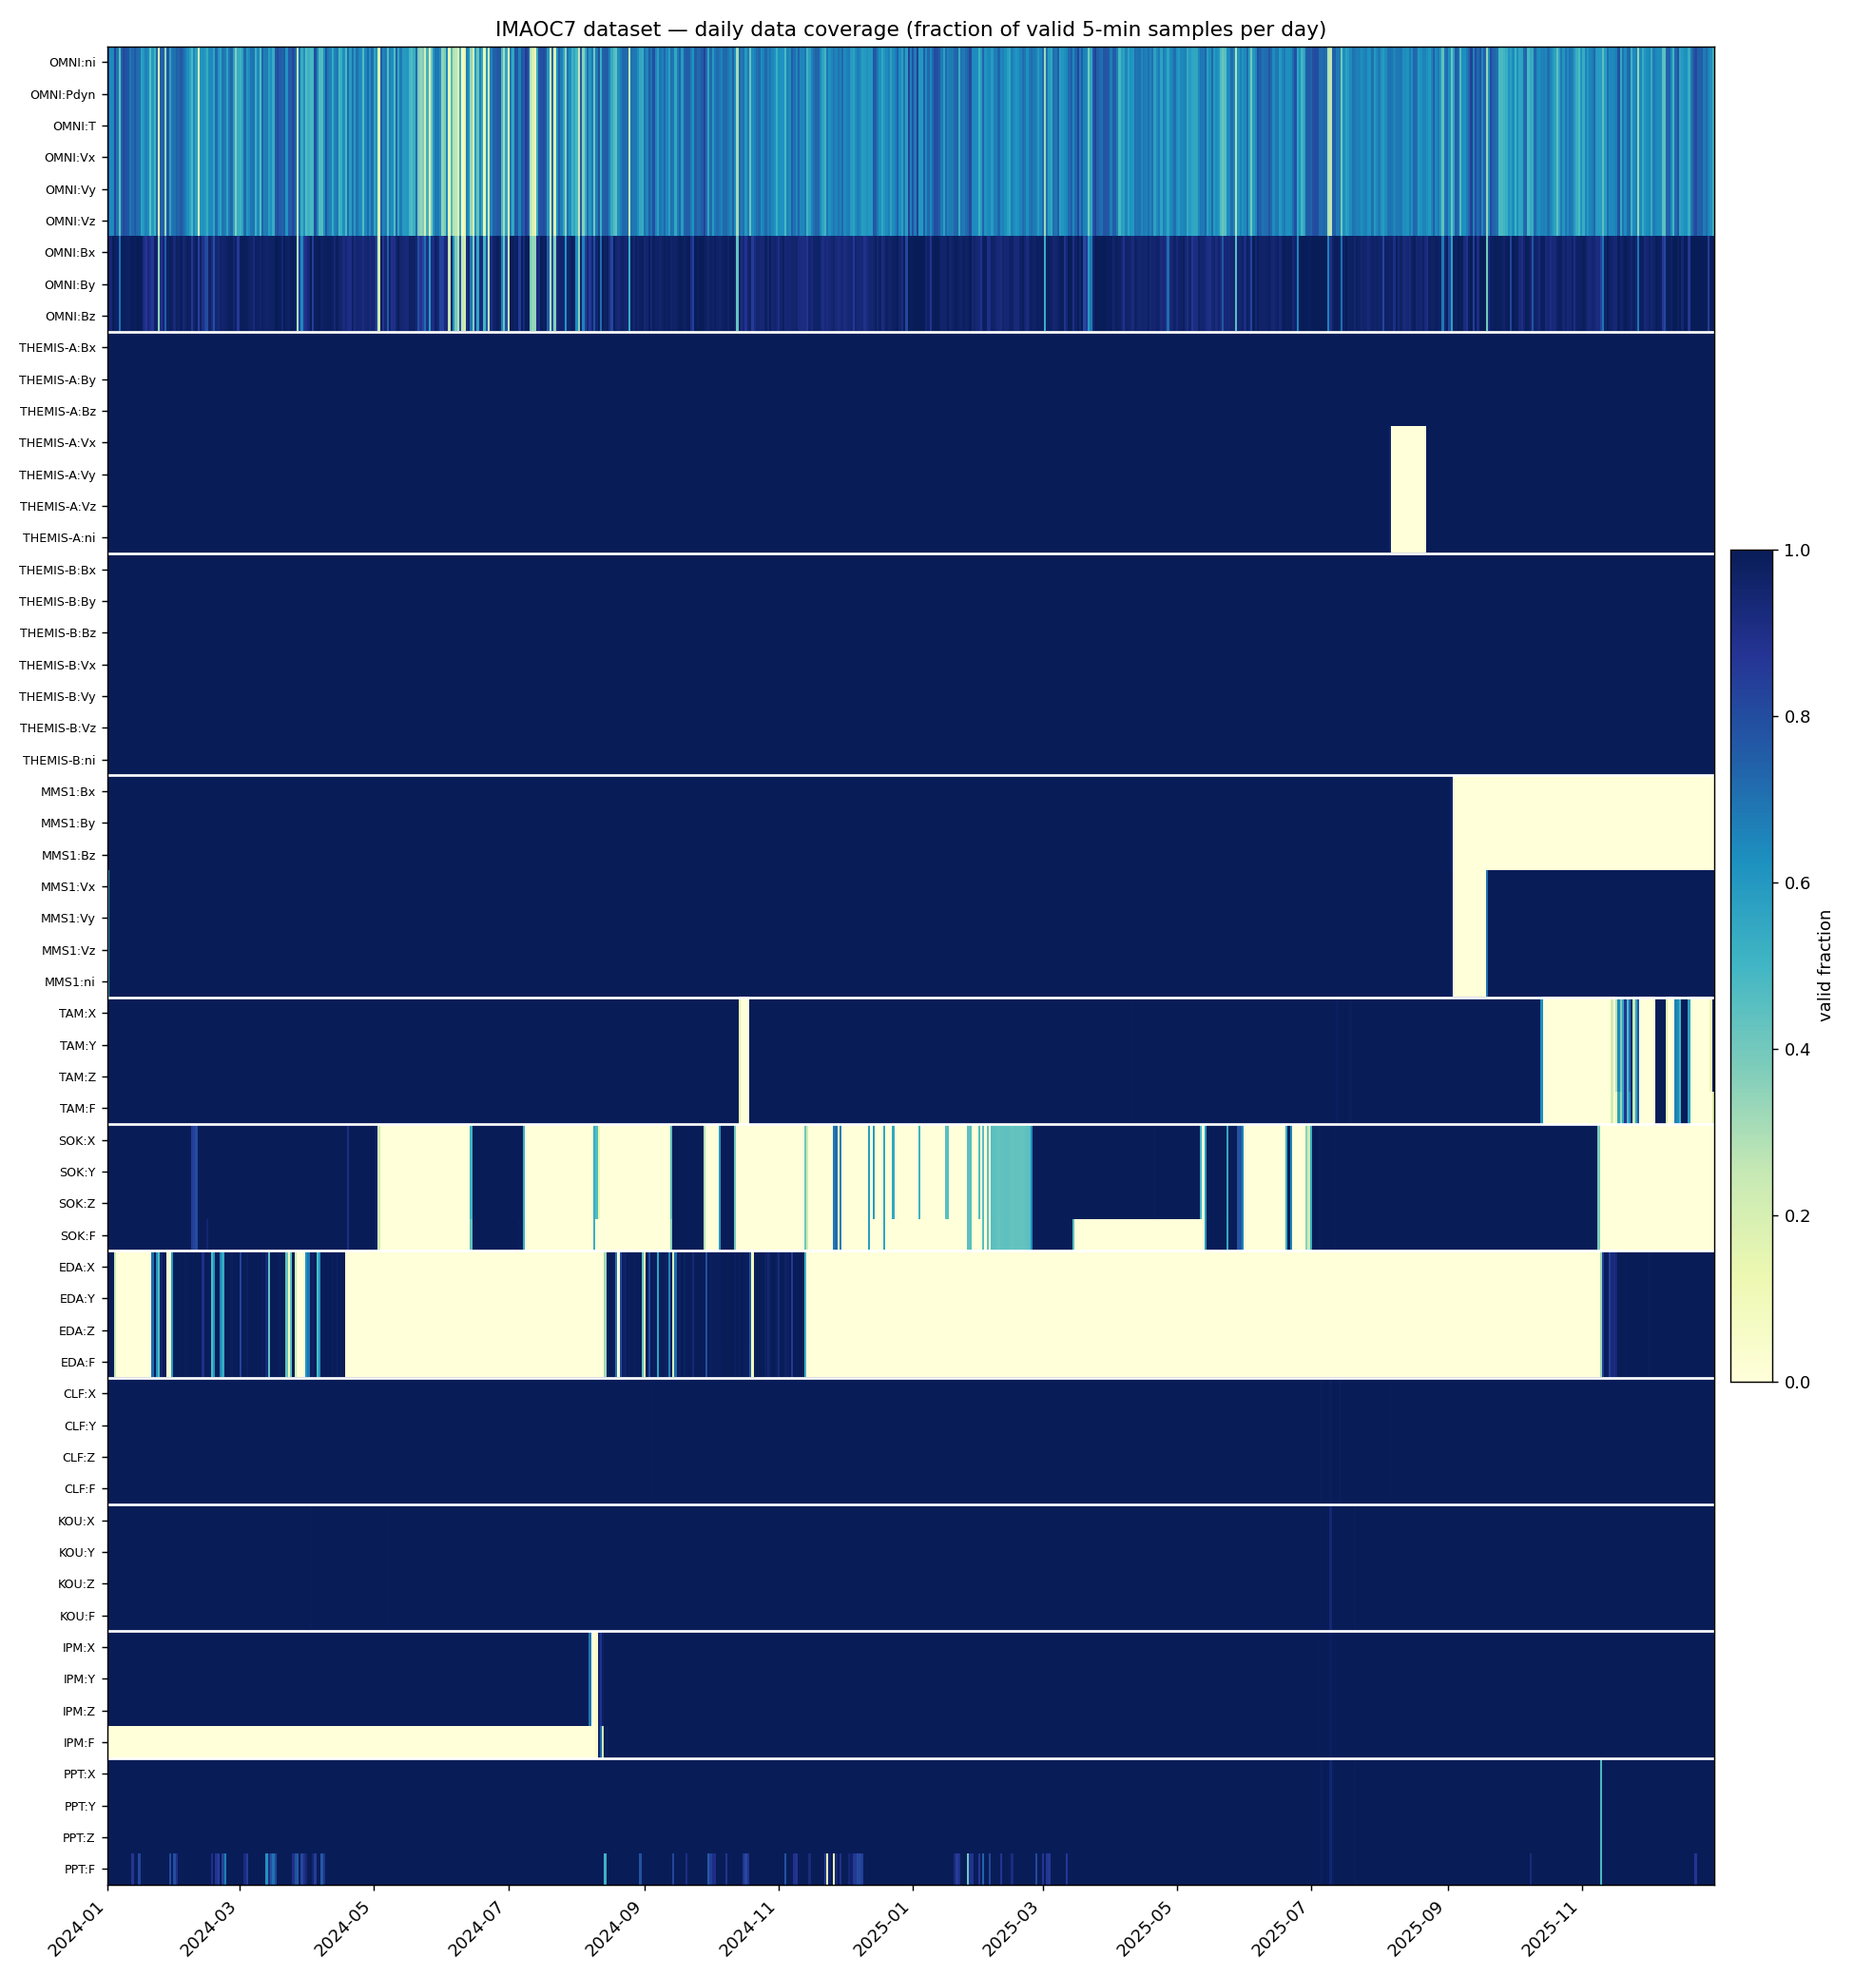
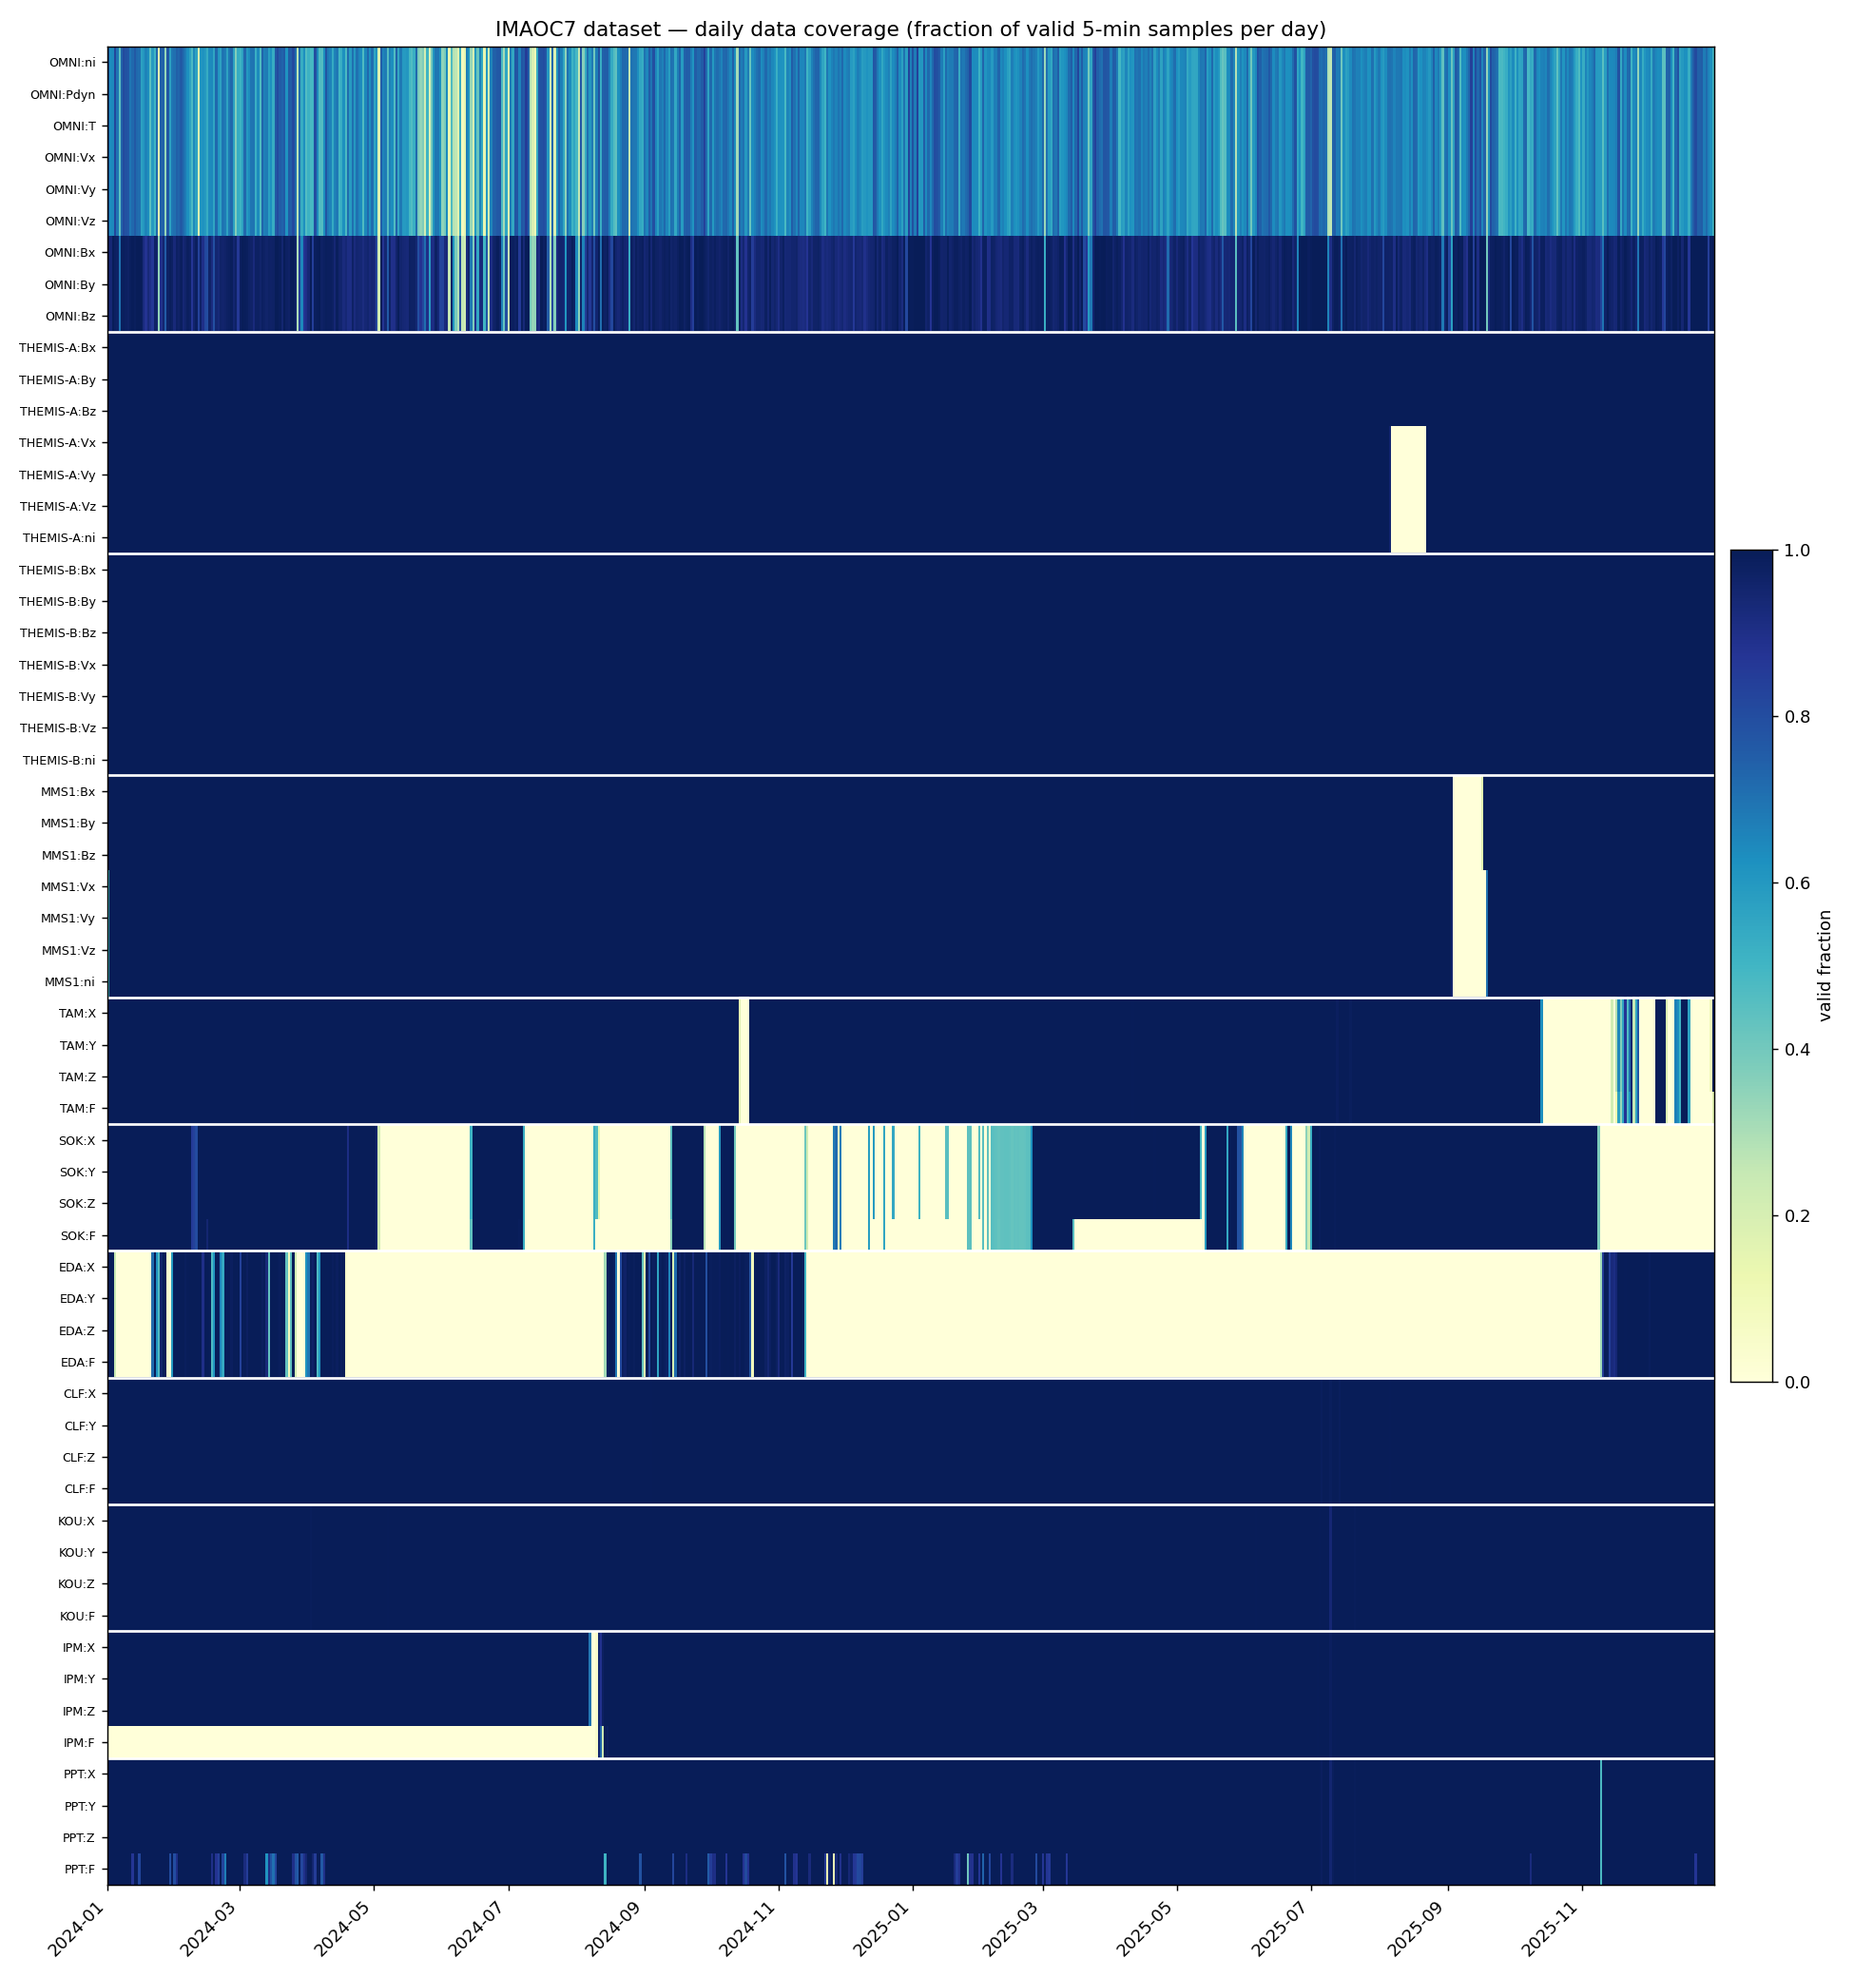
Extend MMS1 B to 2026 via CDAWeb; mask internal data gaps
MMS1 magnetic field now comes from CDAWeb (cda/MMS1_FGM_SRVY_L2/
mms1_fgm_b_gse_srvy_l2), which covers up to 2026, instead of AMDA's
mms1_b_gse that stops 2025-09-03. New helper fetch_mms1_fgm_b_gse fetches
it chunked + FILLVAL-masked, keeps Bx/By/Bz, and names the variable
mms1_b_gse so the dataset schema (mms1_b_gse_*) is unchanged.
regenerate_mms1_fgm.py fetches only the CDAWeb tail past the AMDA cutoff
and merges, avoiding a tens-of-GB full re-download.

This exposed a second interpolation flaw: np.interp also bridges *internal*
time-axis gaps with a straight linear ramp (the real ~2-week MMS FGM gap
2025-09-03..09-17 was being filled with a fake ramp, 0 NaN). interpolate_with_gaps
now NaN-masks any sample farther than max_gap (default 1 h) from a real sample,
so multi-day gaps read as NaN while short dropouts are still bridged. Impact is
surgical: only mms1_b_gse changed (+3988 NaN); all other variables already had
NaN-valued gaps and are untouched.

Changed region(s): [[0.8, 0.375, 0.9231, 0.4375]]

diff --git a/dataset_tools.py b/dataset_tools.py
@@ -15,28 +15,38 @@ from speasy.products.variable import merge
 from speasy.signal.resampling import resample as spz_resample, interpolate as spz_interpolate
 
 
-def interpolate_with_gaps(time_vector: np.ndarray, var: SpeasyVariable) -> SpeasyVariable:
+def interpolate_with_gaps(time_vector: np.ndarray, var: SpeasyVariable,
+                          max_gap: np.timedelta64 = np.timedelta64(1, "h")) -> SpeasyVariable:
     """Interpolate ``var`` onto ``time_vector`` while preserving missing coverage.
 
-    ``numpy.interp`` (used by speasy's interpolate) holds the first/last sample
-    constant outside ``[t0, t1]`` instead of extrapolating. For a variable that
-    only covers part of the requested span this silently produces flat lines, so
-    we mask everything outside the variable's real time coverage back to NaN.
+    ``numpy.interp`` (used by speasy's interpolate) silently bridges missing data:
+    outside ``[t0, t1]`` it holds the first/last sample constant (flat lines), and
+    across an internal time-axis gap it draws a straight linear ramp. Both hide the
+    absence of data. We mask back to NaN any output sample that is outside the
+    variable's coverage or farther than ``max_gap`` from the nearest real sample,
+    so a multi-day gap shows as NaN rather than a fake ramp. Short dropouts (up to
+    ``max_gap``) are still bridged for usability.
     """
-    t0, t1 = var.time.min(), var.time.max()
+    src = var.time
     out = spz_interpolate(time_vector, var)
-    outside = (time_vector < t0) | (time_vector > t1)
-    out.values[outside] = np.nan
+    idx = np.searchsorted(src, time_vector)
+    left = np.clip(idx - 1, 0, len(src) - 1)
+    right = np.clip(idx, 0, len(src) - 1)
+    dist = np.minimum(np.abs(time_vector - src[left]), np.abs(time_vector - src[right]))
+    mask = (time_vector < src[0]) | (time_vector > src[-1]) | (dist > max_gap)
+    out.values[mask] = np.nan
     return out
 
 
 def fetch_resampled_chunked(uid: str, start: AnyDateTimeType, stop: AnyDateTimeType,
-                            interval: float, chunk_days: int = 7) -> SpeasyVariable | None:
+                            interval: float, chunk_days: int = 7,
+                            mask_fill: bool = True) -> SpeasyVariable | None:
     """Fetch a high-rate product in time chunks, resampling each chunk to ``interval``
     before fetching the next, so the full-resolution data is never held whole.
 
-    Needed for products like ``amda/mms1_b_gse`` (FGM survey, ~16 Hz) where a single
-    multi-year request is too large and can be silently truncated.
+    Needed for products like the FGM survey (~16 Hz) where a single multi-year request
+    is too large and can be silently truncated. ``mask_fill`` replaces declared FILLVAL
+    sentinels with NaN *before* resampling, so they do not poison the chunk averages.
     """
     start, stop = make_utc_datetime(start), make_utc_datetime(stop)
     chunks = []
@@ -45,9 +55,30 @@ def fetch_resampled_chunked(uid: str, start: AnyDateTimeType, stop: AnyDateTimeT
         t_next = min(t + timedelta(days=chunk_days), stop)
         r = spz.get_data(uid, t, t_next)
         if r is not None and len(r.time):
+            if mask_fill:
+                r = r.replace_fillval_by_nan()
             chunks.append(spz_resample(r, interval))
         t = t_next
     return merge(chunks) if chunks else None
+
+
+def fetch_mms1_fgm_b_gse(start: AnyDateTimeType, stop: AnyDateTimeType,
+                         interval: float, chunk_days: int = 7) -> SpeasyVariable | None:
+    """MMS1 FGM survey B in GSE from CDAWeb, resampled to ``interval``.
+
+    Uses CDAWeb (covers to 2026) rather than AMDA's ``mms1_b_gse`` (stops 2025-09-03).
+    Keeps only Bx/By/Bz (drops the |B| 4th column) and names the variable ``mms1_b_gse``
+    with ``bx/by/bz`` columns so the assembled dataset keeps its ``mms1_b_gse_*`` schema.
+    """
+    raw = fetch_resampled_chunked("cda/MMS1_FGM_SRVY_L2/mms1_fgm_b_gse_srvy_l2",
+                                  start, stop, interval, chunk_days)
+    if raw is None:
+        return None
+    return SpeasyVariable(
+        axes=[VariableTimeAxis(raw.time)],
+        values=DataContainer(np.asarray(raw.values)[:, :3], name="mms1_b_gse"),
+        columns=["bx", "by", "bz"],
+    )
 
 
 def _parse_ground_mag(text: str) -> SpeasyVariable:

diff --git a/regenerate_mms1_fgm.py b/regenerate_mms1_fgm.py
@@ -1,0 +1,43 @@
+"""Extend MMS1 B-field coverage to 2026 using CDAWeb FGM, rebuild dataset + plots.
+
+AMDA's mms1_b_gse stops 2025-09-03; CDAWeb's MMS1_FGM_SRVY_L2 (same L2 data) runs to
+2026. The existing pickle already holds good B up to the AMDA cutoff, so we only fetch
+the CDAWeb tail beyond it and merge — avoiding a multi-year full-resolution re-download.
+
+Run: .venv/bin/python regenerate_mms1_fgm.py
+"""
+import pickle
+
+import numpy as np
+from speasy.products.variable import merge
+
+from dataset_tools import fetch_mms1_fgm_b_gse
+from regenerate import rebuild_dataset, log, STOP, INTERVAL
+import make_overview_plots
+
+
+def extend_mms1_b_to_2026():
+    with open("mms1_5min.pkl", "rb") as f:
+        ds = pickle.load(f)
+    by_name = {v.name: v for v in ds}
+    existing_b = by_name.pop("mms1_b_gse")
+    cutover = existing_b.time.max()
+    log(f"[1/3] existing b_gse ends {cutover}; fetching CDAWeb FGM beyond it...")
+
+    tail = fetch_mms1_fgm_b_gse("2025-09-03", STOP, INTERVAL, chunk_days=7)
+    tail = tail[cutover + np.timedelta64(1, "s"):]
+    log(f"      CDA tail: {tail.time.min()} -> {tail.time.max()} (N={len(tail.time)})")
+
+    full_b = merge([existing_b, tail])
+    log(f"      merged b_gse: {full_b.time.min()} -> {full_b.time.max()} (N={len(full_b.time)})")
+
+    with open("mms1_5min.pkl", "wb") as f:
+        pickle.dump([full_b] + list(by_name.values()), f)
+    log("      wrote mms1_5min.pkl")
+
+
+if __name__ == "__main__":
+    extend_mms1_b_to_2026()
+    rebuild_dataset()
+    log("Regenerating overview plots...")
+    make_overview_plots.main()

diff --git a/test_dataset_tools.py b/test_dataset_tools.py
@@ -38,6 +38,23 @@ def test_interpolate_with_gaps_nans_outside_coverage():
     assert np.isfinite(out.values[inside]).all()
 
 
+def test_interpolate_with_gaps_nans_internal_gap():
+    # Two data islands with a multi-day hole between them must NOT be bridged.
+    a = np.arange("2024-06-01", "2024-06-03", np.timedelta64(1, "h"), dtype="datetime64[ns]")
+    b = np.arange("2024-06-20", "2024-06-22", np.timedelta64(1, "h"), dtype="datetime64[ns]")
+    times = np.concatenate([a, b])
+    values = np.ones((len(times), 1))
+    var = SpeasyVariable(axes=[VariableTimeAxis(times)],
+                         values=DataContainer(values), columns=["x"])
+    tv = generate_time_vector("2024/06/01", "2024/06/22", 60. * 5)
+    out = interpolate_with_gaps(tv, var)
+
+    in_gap = (tv > a[-1] + np.timedelta64(2, "h")) & (tv < b[0] - np.timedelta64(2, "h"))
+    on_data = (tv >= a[0]) & (tv <= a[-1])
+    assert np.isnan(out.values[in_gap]).all()      # hole stays empty, no ramp
+    assert np.isfinite(out.values[on_data]).all()   # real data preserved
+
+
 def test_replace_fillval_masks_sentinels():
     # OMNI CDFs declare FILLVAL (e.g. 9999.99) that must become NaN, not a real number.
     times = np.arange("2024-01-01", "2024-01-01T05", np.timedelta64(1, "h"),
